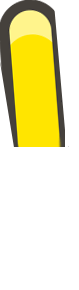
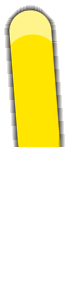
fix: fix hands imgs to big screens

Changed region(s): [[0.0, 0.0, 0.8354, 0.5276]]

diff --git a/src/components/Hand/styles/_bigRight/finger_bigRight_open.css b/src/components/Hand/styles/_bigRight/finger_bigRight_open.css
@@ -1,5 +1,5 @@
 .finger_bigRight_open {
-  -webkit-transform: rotate(110deg) translateY(-2%) translateY(-14%);
-  -ms-transform: rotate(110deg) translateY(-2%) translateY(-14%);
-  transform: rotate(110deg) translateY(-2%) translateY(-14%);
+  -webkit-transform: rotate(110deg) translateX(4%) translateY(-21%);
+  -ms-transform: rotate(110deg) translateX(4%) translateY(-21%);
+  transform: rotate(110deg) translateX(4%) translateY(-21%);
 }

diff --git a/src/components/App/App.js b/src/components/App/App.js
@@ -65,13 +65,8 @@ function App() {
     }
   }, [loadProgress]);
 
-  function getScrollWidth() {
-    console.log(this);
-  }
-
   React.useEffect(() => {
     if (!Mobile) {
-      getScrollWidth();
       const scrollDiv = document.createElement("div");
       scrollDiv.className = "scrollbar-measure";
       document.body.appendChild(scrollDiv);

diff --git a/src/components/Hand/styles/_bigLeft/finger_bigLeft_open.css b/src/components/Hand/styles/_bigLeft/finger_bigLeft_open.css
@@ -1,5 +1,5 @@
 .finger_bigLeft_open {
-  -webkit-transform: rotate(250deg);
-  -ms-transform: rotate(250deg);
-  transform: rotate(250deg);
+  -webkit-transform: rotate(250deg) translateX(-4%) translateY(-21%);;
+  -ms-transform: rotate(250deg) translateX(-4%) translateY(-21%);;
+  transform: rotate(250deg) translateX(-4%) translateY(-21%);;
 }

diff --git a/src/components/Hand/styles/rightPointing.css b/src/components/Hand/styles/rightPointing.css
@@ -1,6 +1,6 @@
 .rightPointing {
   z-index: 1;
-  right: 25%;
-  top: 7%;
-  width: 31%;
+  right: 25.5%;
+  top: 8.6%;
+  width: 30.5%;
 }

diff --git a/src/components/Hand/styles/leftPointing.css b/src/components/Hand/styles/leftPointing.css
@@ -1,6 +1,6 @@
 .leftPointing {
   z-index: 1;
-  left: 25%;
-  top: 7%;
-  width: 31%;
+  left: 25.5%;
+  top: 8.6%;
+  width: 30.5%;
 }

diff --git a/src/components/Hand/styles/rightPinky.css b/src/components/Hand/styles/rightPinky.css
@@ -1,6 +1,6 @@
 .rightPinky {
   z-index: 1;
-  right: 75%;
-  top: 15%;
-  width: 24%;
+  right: 76.5%;
+  top: 18%;
+  width: 22%;
 }

diff --git a/src/components/Hand/styles/rightUnnamed.css b/src/components/Hand/styles/rightUnnamed.css
@@ -1,6 +1,6 @@
 .rightUnnamed {
   z-index: 2;
-  right: 62.5%;
-  top: 7%;
-  width: 19%;
+  right: 64%;
+  top: 8%;
+  width: 17%;
 }

diff --git a/src/components/Hand/styles/leftPinky.css b/src/components/Hand/styles/leftPinky.css
@@ -1,6 +1,6 @@
 .leftPinky {
   z-index: 1;
-  left: 75%;
-  top: 15%;
-  width: 24%;
+  left: 76.5%;
+  top: 18%;
+  width: 22%;
 }

diff --git a/src/components/Hand/styles/leftUnnamed.css b/src/components/Hand/styles/leftUnnamed.css
@@ -1,6 +1,6 @@
 .leftUnnamed {
   z-index: 2;
-  left: 62.5%;
-  top: 7%;
-  width: 19%;
+  left: 64%;
+  top: 8%;
+  width: 17%;
 }

diff --git a/src/components/Hand/styles/_bigRight/finger_bigRight.css b/src/components/Hand/styles/_bigRight/finger_bigRight.css
@@ -1,6 +1,6 @@
 .finger_bigRight {
   z-index: 4;
   top: 50%;
-  right: 0;
+  right: 2.4%;
   width: 50%;
 }

diff --git a/src/components/Hand/styles/rightCentral.css b/src/components/Hand/styles/rightCentral.css
@@ -1,6 +1,6 @@
 .rightCentral {
   z-index: 3;
   top: 5%;
-  right: 44.5%;
+  right: 44%;
   width: 24%;
 }

diff --git a/src/components/Hand/styles/_bigLeft/finger_bigLeft.css b/src/components/Hand/styles/_bigLeft/finger_bigLeft.css
@@ -1,6 +1,6 @@
 .finger_bigLeft {
   z-index: 4;
   top: 50%;
-  left: 0;
+  left: 2.4%;
   width: 50%;
 }
